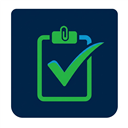
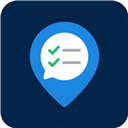
feat: Saha Anket logosu ve ikonlari guncellendi

diff --git a/components.js b/components.js
@@ -1095,7 +1095,7 @@ export function renderLoginScreen() {
         <!-- STANDALONE LOGO (DIRECT DISPLAY, NO DOUBLE BOX CLUTTER) -->
         <div class="flex justify-center mb-6">
           <div class="p-3 bg-white/95 backdrop-blur-md border border-white/20 rounded-2xl shadow-xl transition-transform hover:scale-105 duration-200">
-            <img src="./logo_sehitkamil.png" alt="Şehitkamil Logo" class="h-16 sm:h-20 w-auto max-w-[280px] object-contain">
+            <img src="./logo_saha_anket.png" alt="Saha Anket Logo" class="h-16 sm:h-20 w-auto max-w-[280px] object-contain">
           </div>
         </div>
 
@@ -1104,7 +1104,7 @@ export function renderLoginScreen() {
           
           <!-- TITLE -->
           <div class="text-center pb-1">
-            <h1 class="text-lg sm:text-xl font-bold text-[#0B315D] tracking-tight leading-snug">Şehitkamil Strateji Geliştirme Merkezi</h1>
+            <h1 class="text-lg sm:text-xl font-bold text-[#0B315D] tracking-tight leading-snug">Saha Anket</h1>
           </div>
 
           <!-- FORM -->
